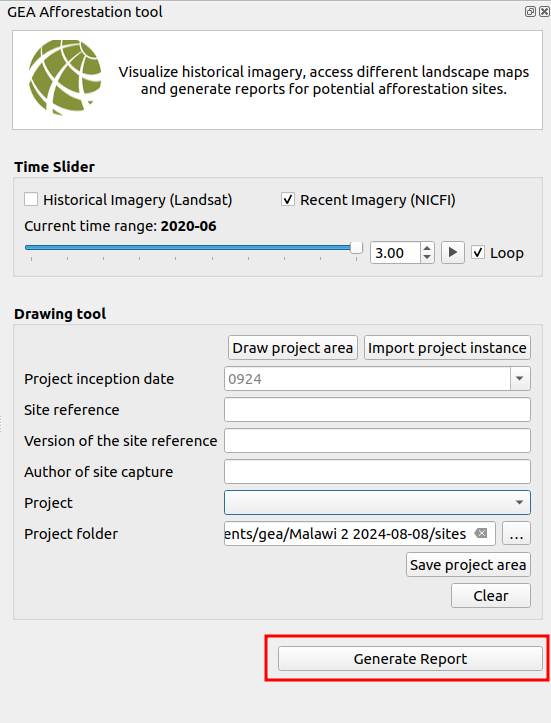
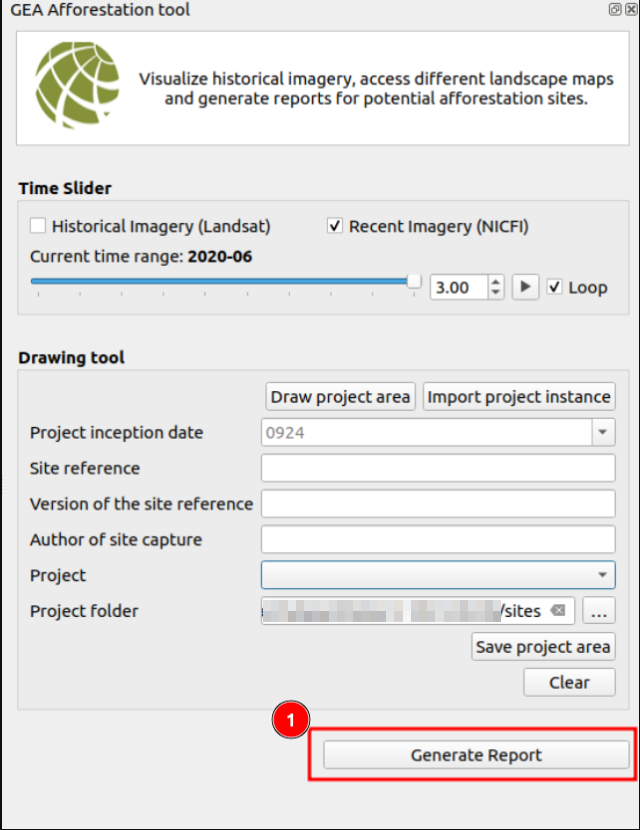
Added generate report doc

Changed region(s): [[0.0, 0.0, 1.0, 1.0]]

diff --git a/docs/src/user/manual/gea-reforestation-tool.md b/docs/src/user/manual/gea-reforestation-tool.md
@@ -50,7 +50,7 @@ The user can use the drawing tool to draw polygons on the map canvas.
 
 ![Id popup](./img/gea-reforestation-tool-9.png)
 
-- **Error Handling:** If any of the fields is empty, an error message will be displayed for example for the site reference field the message would be: `Please add the site reference before starting drawing the project area.`
+* **Error Handling:** If any of the fields is empty, an error message will be displayed for example for the site reference field the message would be: `Please add the site reference before starting drawing the project area.`
 
     ![Error message](./img/gea-reforestation-tool-4.png)
 
@@ -82,7 +82,7 @@ The user can use the drawing tool to draw polygons on the map canvas.
 
 ![Import Project Instance](./img/gea-reforestation-tool-10.png)
 
-* **Cancle:** Close the pop-up window.
+* **Cancel:** Close the pop-up window.
 * **Open:** Select the file and click on the `Open button` to proceed.
 * **Shapefiles:** Extension of the file.
 
@@ -110,4 +110,34 @@ After saving the instance, the selected instance will be added to the project in
 
 ## Automated Report
 
-Click on the generate report button to generate an automated report.
+![Generate Report](./img/gea-reforestation-tool-14.png)
+
+1. **Generate Report:** Click on the `Generate Report` button to generate an automated report.
+
+    After clicking the `Generate Report` button **Site Report Progress** pop-up window will appear displaying the status of the report.
+
+    ![Site Report Progress](./img/gea-reforestation-tool-15.png)
+
+    * **Progress Bar:** Displaying the current status of the process.
+    * **Close:** Cancel the process.
+    * **Open PDF:** Open the PDF in a new pop-up window.
+
+    ## Genenrated Report
+
+    This is the report generated after completing the process.
+
+    ![Generated Report](./img/gea-reforestation-tool-16.png)
+
+    1. **GEA Reforestation Site Report:** Displaying the report information.
+        - **Date of Project Inception:** The date when the project started.
+        - **Version of Site Referrence:** The version of the site reference.
+        - **Date of Site Capture:** The date when the site was captured.
+        - **Site Refference:** The site reference.
+        - **Author of Site Capture:** The person who captured the site.
+        - **Country Location:** The country where the project is located.
+        - **Site Area:** The area of the site.
+
+    2. **Site Location Maps:** Displaying the site location on the maps.
+
+    3. **Landscape Exclusion and Inclusion Areas:**  Displaying the Historical Landsat 2013 with and without exclusion masks and 
+    proposed site.

diff --git a/docs/src/user/guide/gea-reforestation-tool.md b/docs/src/user/guide/gea-reforestation-tool.md
@@ -197,6 +197,15 @@ After saving the instance, your selected instance will be added to the project i
 
 ![Report](./img/gea-reforestation-tool-13.png)
 
-**Generating an Automated Report:** After drawing and saving your project area, click the Generate Report` button. The system will create an automated report based on your project area and details.
+**Generating an Automated Report:** After drawing and saving your project area, click on the 1⃣ `Generate Report` button, upon clicking the button report generation process will start and the pop-up window will open, showing the status of the process.
+
+![Report Progress Dialog](./img/gea-reforestation-tool-21.png)
+
+* **Close:**  Close the dialog to continue working on your project.
+* **Open PDF:** Open the generated report PDF in a new pop-up window  (Shown below).
+
+![Report PDF](./img/gea-reforestation-tool-22.png)
 
 By following these steps, you will be able to effectively use the Drawing Tool to define your project areas and generate automated reports for the GEA Reforestation project.
+
+
